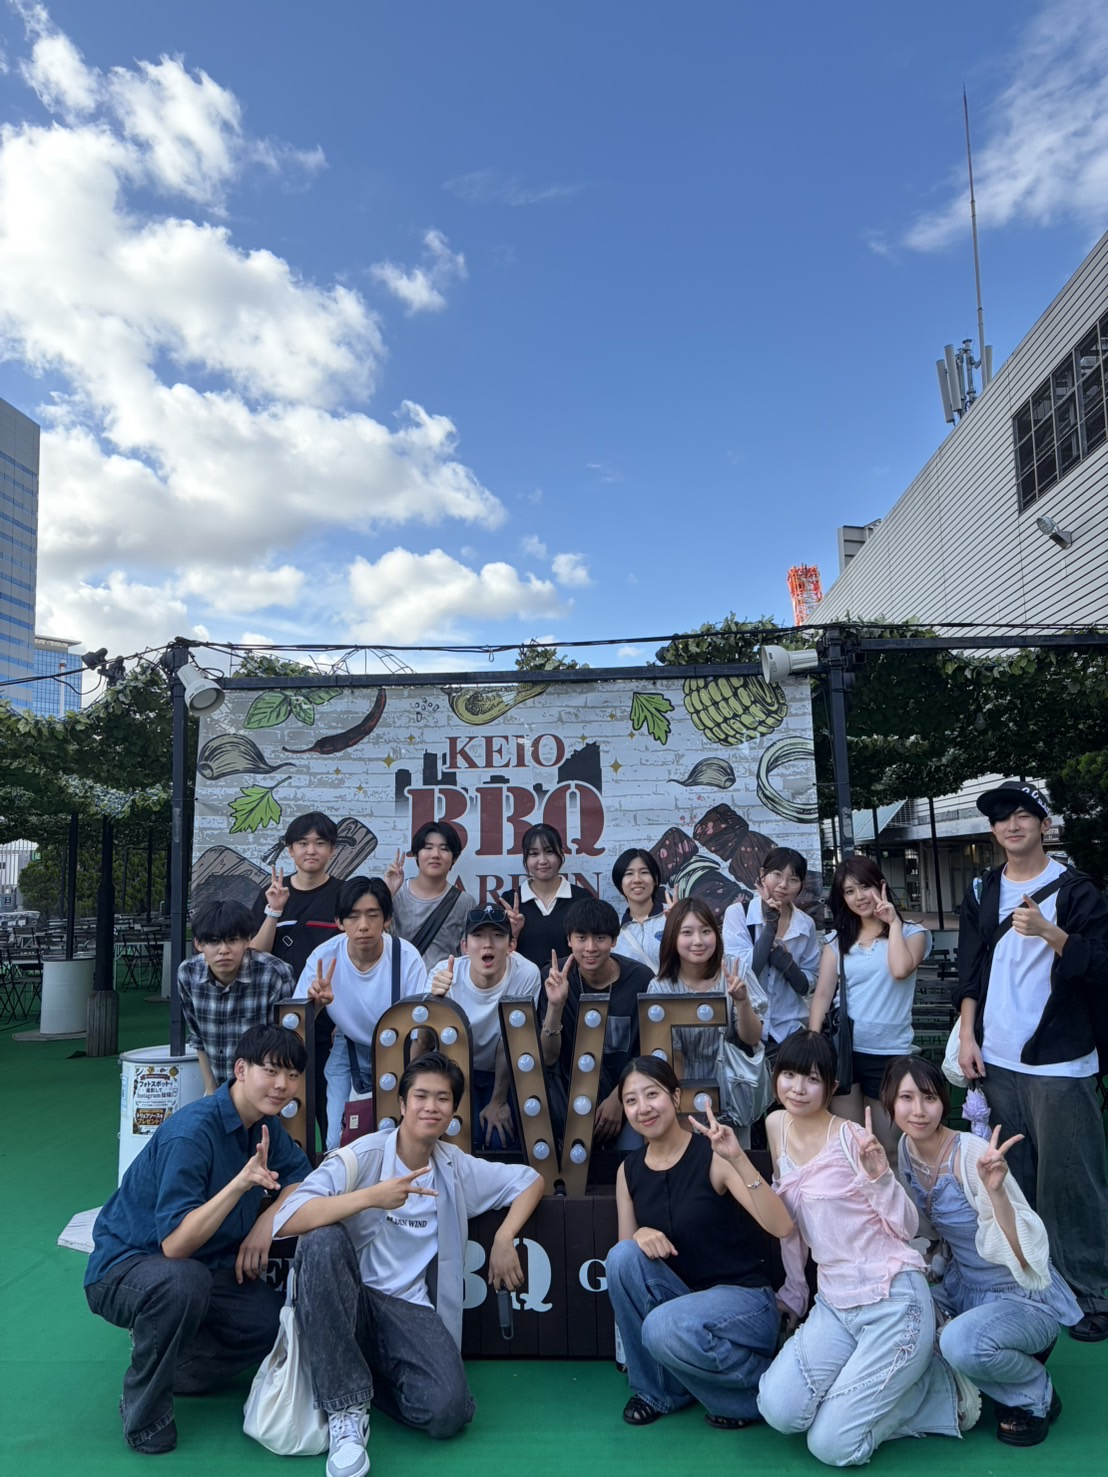
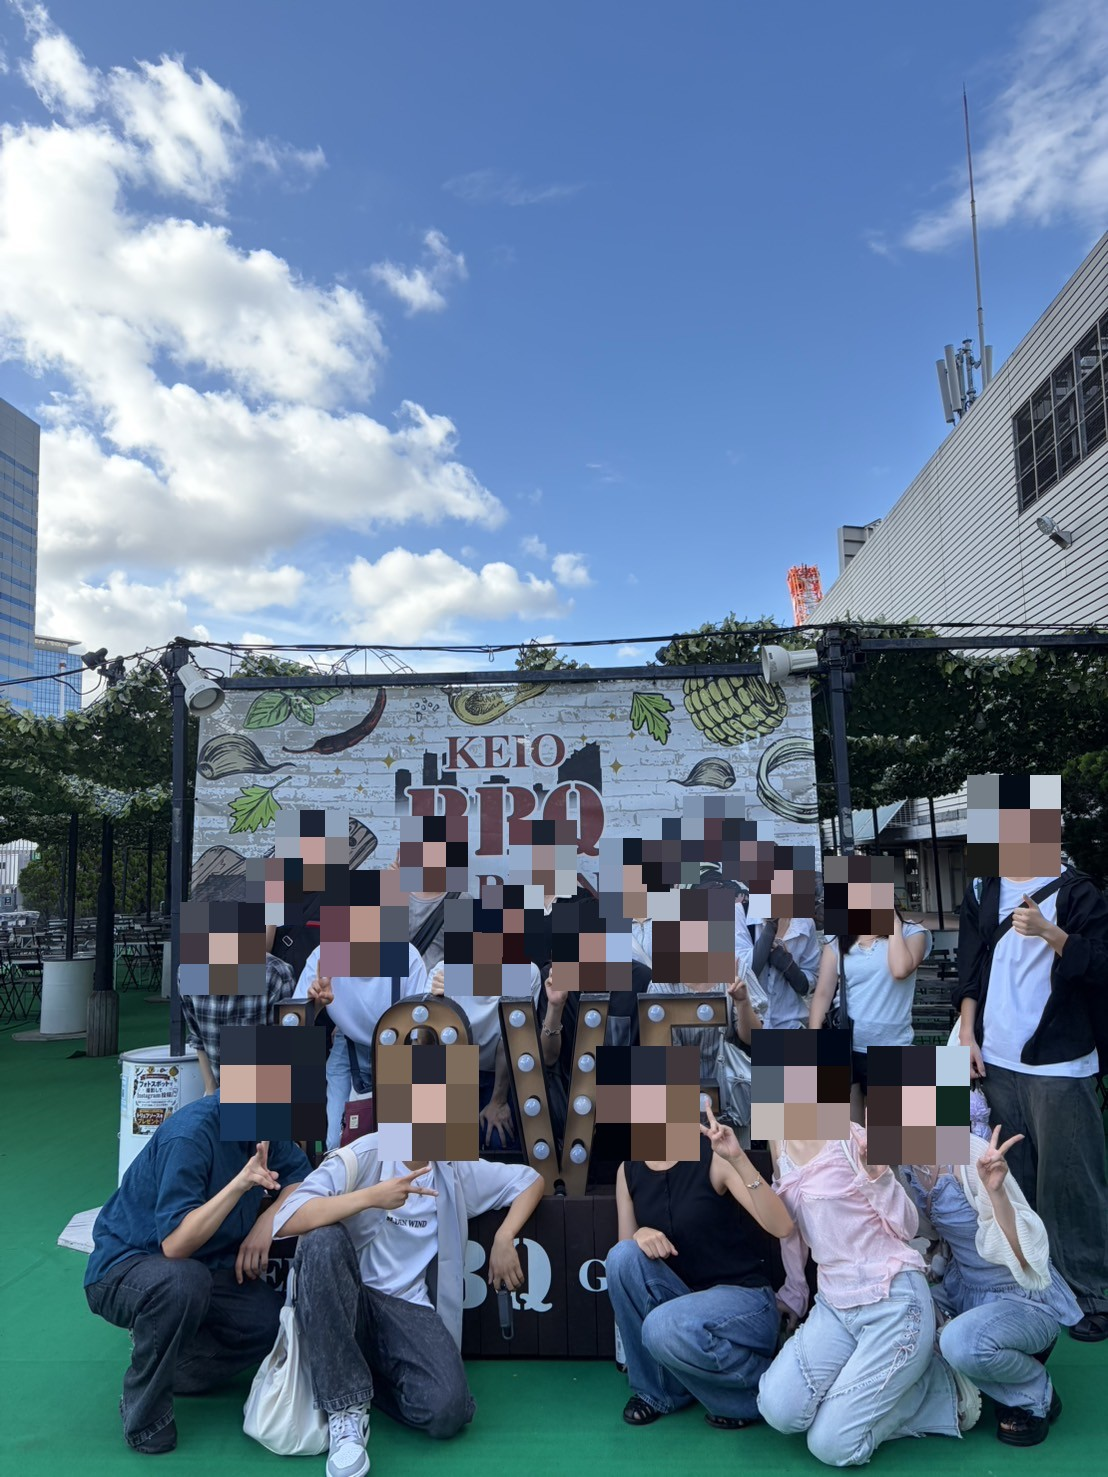
Pixelate faces in activity photos except hero and winter camp.

Changed region(s): [[0.1534, 0.5295, 0.8285, 0.8097], [0.6751, 0.6852, 0.8899, 0.8097], [0.8592, 0.4983, 0.9819, 0.5917]]

diff --git a/tools/mosaic_faces.py b/tools/mosaic_faces.py
@@ -1,0 +1,160 @@
+# -*- coding: utf-8 -*-
+"""Pixelate faces in site photos (excludes hero range-ai.png and snow.jpg)."""
+from __future__ import annotations
+
+import shutil
+from pathlib import Path
+
+import cv2
+import numpy as np
+
+ROOT = Path(__file__).resolve().parent.parent
+ASSETS = ROOT / "assets"
+BACKUP = ROOT / "tools" / "_photo_backup"
+MODEL = Path(__file__).resolve().parent / "face_detection_yunet_2023mar.onnx"
+
+# Exclude: top/join hero + winter camp
+SKIP = {"range-ai.png", "snow.jpg", "logo.png"}
+
+# Photos known to show people (used on site + related)
+TARGETS = [
+    "bbq.jpg",
+    "clean-group.jpg",
+    "bunkasai.jpg",
+    "range-real.jpg",
+    "horse.jpg",
+    "clean-break.jpg",
+    "clean-daily.jpg",
+]
+
+
+def detect_faces(img: np.ndarray) -> list[tuple[int, int, int, int]]:
+    h, w = img.shape[:2]
+    boxes: list[tuple[int, int, int, int]] = []
+
+    detector = cv2.FaceDetectorYN.create(str(MODEL), "", (w, h), 0.35, 0.3, 5000)
+    detector.setInputSize((w, h))
+    _, faces = detector.detect(img)
+    if faces is not None:
+        for f in faces:
+            x, y, bw, bh = [int(v) for v in f[:4]]
+            boxes.append((x, y, bw, bh))
+
+    # Second pass at larger / smaller scales helps group shots
+    for scale in (0.6, 1.4):
+        sw, sh = max(32, int(w * scale)), max(32, int(h * scale))
+        resized = cv2.resize(img, (sw, sh))
+        detector.setInputSize((sw, sh))
+        _, faces2 = detector.detect(resized)
+        if faces2 is None:
+            continue
+        for f in faces2:
+            x, y, bw, bh = [float(v) for v in f[:4]]
+            x = int(x / scale)
+            y = int(y / scale)
+            bw = int(bw / scale)
+            bh = int(bh / scale)
+            boxes.append((x, y, bw, bh))
+
+    return merge_boxes(boxes, img.shape[1], img.shape[0])
+
+
+def merge_boxes(
+    boxes: list[tuple[int, int, int, int]], w: int, h: int, iou_thresh: float = 0.35
+) -> list[tuple[int, int, int, int]]:
+    cleaned = []
+    for x, y, bw, bh in boxes:
+        if bw < 8 or bh < 8:
+            continue
+        x = max(0, x)
+        y = max(0, y)
+        bw = min(bw, w - x)
+        bh = min(bh, h - y)
+        if bw < 8 or bh < 8:
+            continue
+        cleaned.append((x, y, bw, bh))
+
+    cleaned.sort(key=lambda b: b[2] * b[3], reverse=True)
+    kept: list[tuple[int, int, int, int]] = []
+    for box in cleaned:
+        if any(iou(box, k) > iou_thresh for k in kept):
+            continue
+        kept.append(box)
+    return kept
+
+
+def iou(a: tuple[int, int, int, int], b: tuple[int, int, int, int]) -> float:
+    ax, ay, aw, ah = a
+    bx, by, bw, bh = b
+    x1, y1 = max(ax, bx), max(ay, by)
+    x2, y2 = min(ax + aw, bx + bw), min(ay + ah, by + bh)
+    inter = max(0, x2 - x1) * max(0, y2 - y1)
+    if inter == 0:
+        return 0.0
+    return inter / float(aw * ah + bw * bh - inter)
+
+
+def apply_mosaic(img: np.ndarray, boxes: list[tuple[int, int, int, int]]) -> np.ndarray:
+    out = img.copy()
+    h, w = out.shape[:2]
+    for x, y, bw, bh in boxes:
+        pad = int(max(bw, bh) * 0.42)
+        x0 = max(0, x - pad)
+        y0 = max(0, y - pad)
+        x1 = min(w, x + bw + pad)
+        y1 = min(h, y + bh + pad)
+        rw, rh = x1 - x0, y1 - y0
+        if rw < 4 or rh < 4:
+            continue
+        # Very coarse blocks so faces are unrecognizable
+        blocks = max(3, min(7, min(rw, rh) // 28))
+        roi = out[y0:y1, x0:x1]
+        small = cv2.resize(roi, (blocks, blocks), interpolation=cv2.INTER_LINEAR)
+        mosaic = cv2.resize(small, (rw, rh), interpolation=cv2.INTER_NEAREST)
+        out[y0:y1, x0:x1] = mosaic
+    return out
+
+
+def process(name: str) -> None:
+    src = ASSETS / name
+    if not src.exists() or name in SKIP:
+        print(f"skip {name}")
+        return
+    BACKUP.mkdir(parents=True, exist_ok=True)
+    bak = BACKUP / name
+    if not bak.exists():
+        shutil.copy2(src, bak)
+
+    # Always process from original backup
+    data = np.fromfile(str(bak), dtype=np.uint8)
+    img = cv2.imdecode(data, cv2.IMREAD_COLOR)
+    if img is None:
+        raise SystemExit(f"failed to read {bak}")
+
+    boxes = detect_faces(img)
+    print(f"{name}: {len(boxes)} faces")
+    if not boxes:
+        print(f"  WARNING: no faces detected in {name}")
+        return
+
+    out = apply_mosaic(img, boxes)
+    ext = src.suffix.lower()
+    if ext in {".jpg", ".jpeg"}:
+        ok, buf = cv2.imencode(".jpg", out, [int(cv2.IMWRITE_JPEG_QUALITY), 90])
+    else:
+        ok, buf = cv2.imencode(".png", out)
+    if not ok:
+        raise SystemExit(f"encode failed {name}")
+    tmp = src.with_suffix(src.suffix + ".tmp")
+    buf.tofile(str(tmp))
+    tmp.replace(src)
+    print(f"  wrote {src}")
+
+
+def main() -> None:
+    for name in TARGETS:
+        process(name)
+
+
+if __name__ == "__main__":
+    main()
